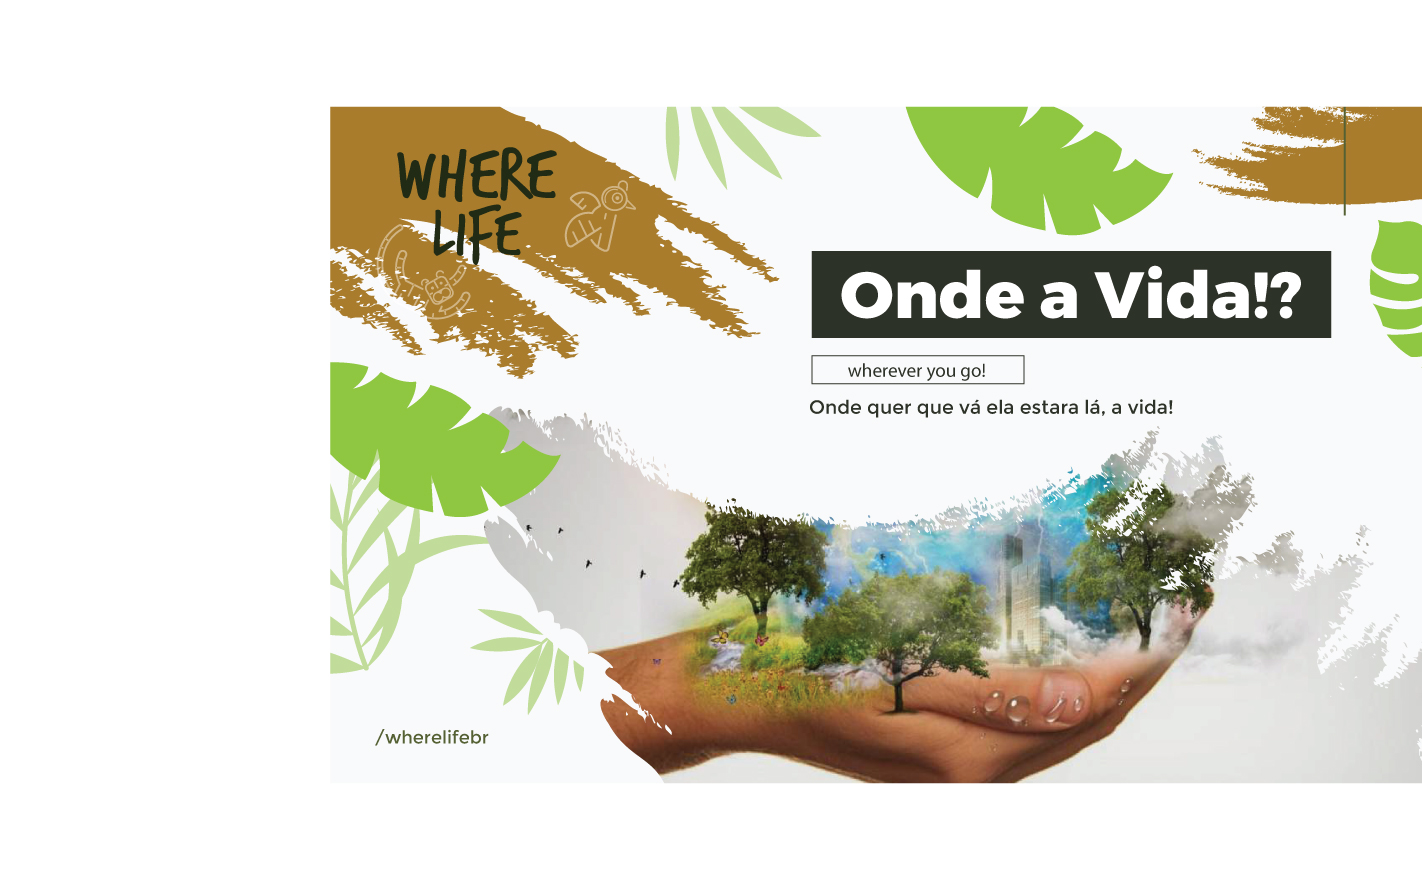
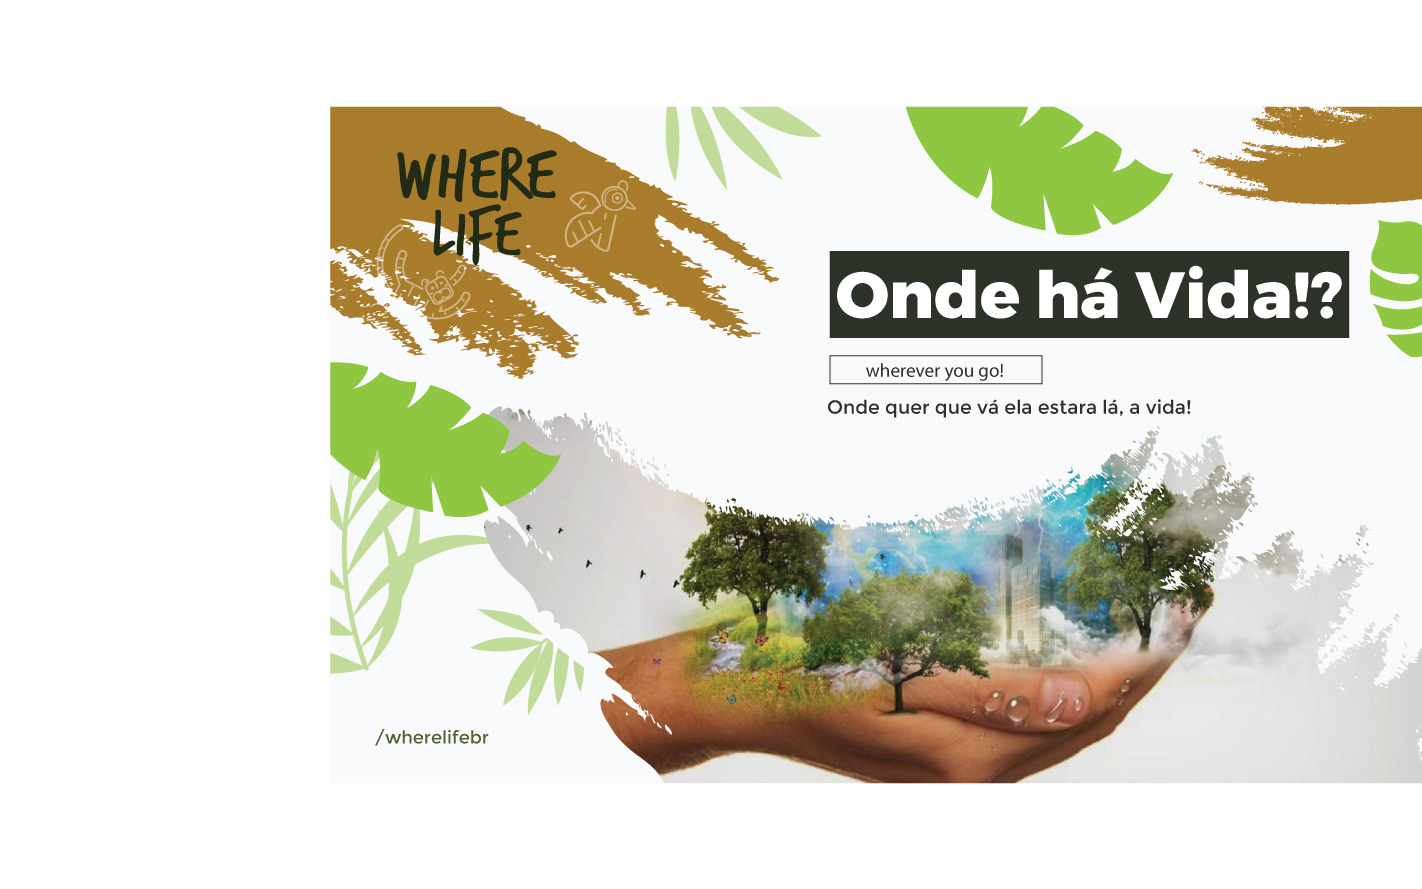
initial commit

Changed region(s): [[0.557, 0.2733, 0.9592, 0.4859]]

diff --git a/index.html b/index.html
@@ -9,7 +9,7 @@
         <meta name="description" content="Site voltado a natureza no mundo">
         <meta name="author" content="Italo Alencar">
 
-        <title>wherelife - Onde a Vida!? Everything is life!</title>
+        <title>wherelife - Onde há Vida!? onde quer que vá!</title>
 
         <!-- CSS -->        
         <link rel="preconnect" href="https://fonts.googleapis.com">
